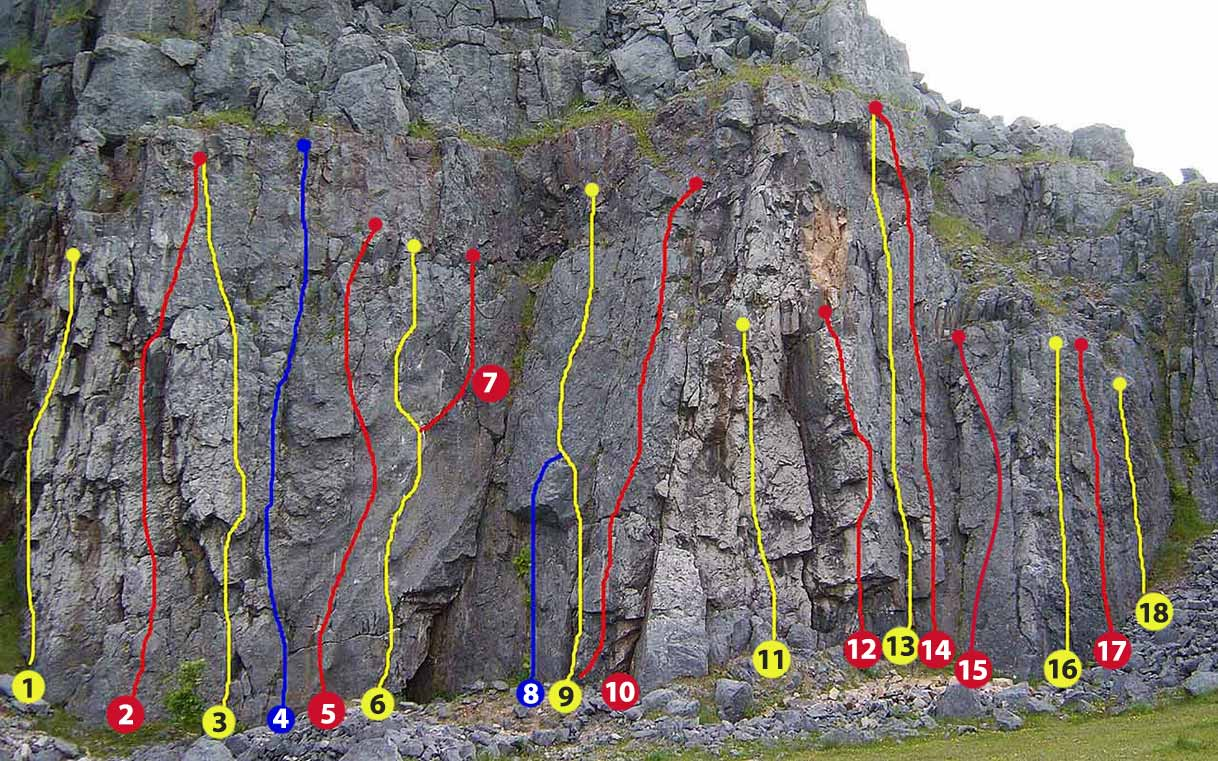
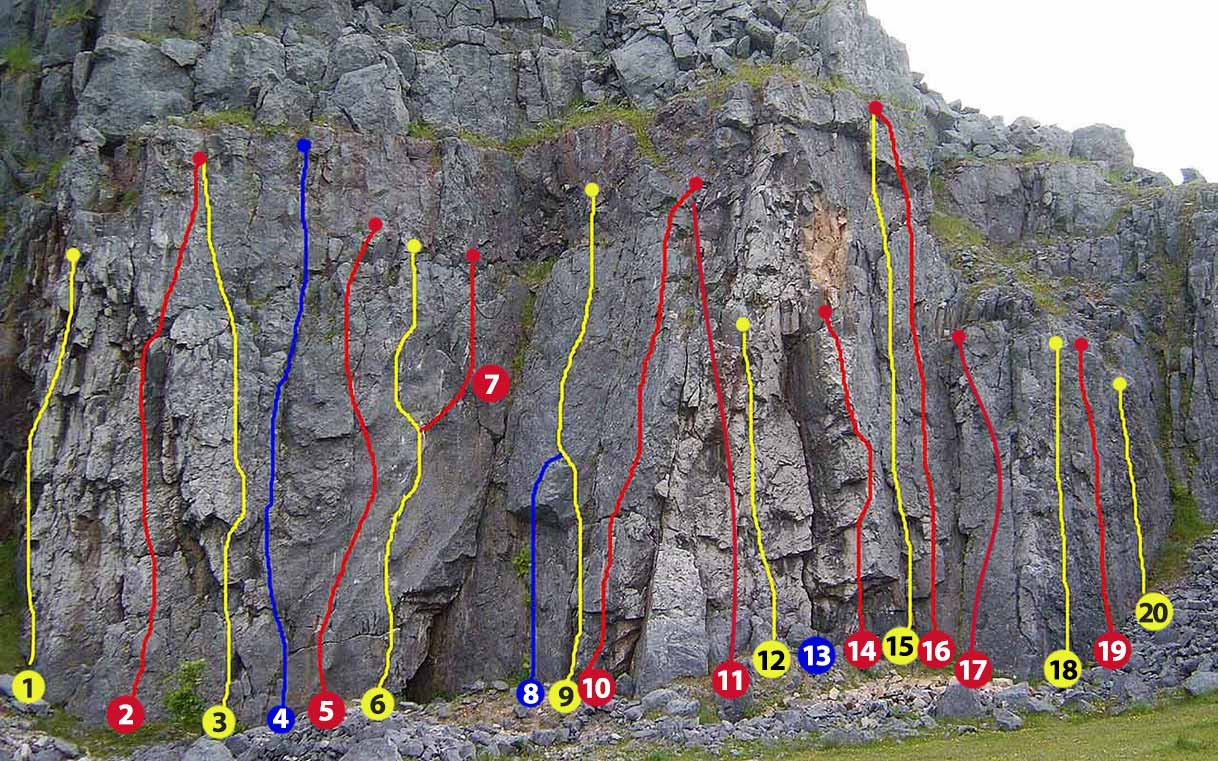
New route on Cairn topos. Topos updated

diff --git a/content/peak/buxton/harpur-hill/hh-cairn-sector.md b/content/peak/buxton/harpur-hill/hh-cairn-sector.md
@@ -39,39 +39,45 @@ Direct through the overlap to join *Great White*.
 Slabby wall above overhang.
 
 **10. The Naked Spur(4+) *★***  
-very pleasant sharp arête.
+Very pleasant sharp arête.
 
-**11. Assault and Battery (6b+)**  
+**11 Driving Board (5)**
+
+**12. Assault and Battery (6b+)**  
 Short technical wall tucked in alcove. Gold BRs.
 
-**Ground and Pound (6a)**  
+**13. Ground and Pound (6a)**  
 The wide corner crack swing right into Trial and then moving up the thin crack before exiting left to its belay
 
-**12. Trial and Error (7a) *★***  
+**14. Trial and Error (7a) *★***  
 The short arête packs in an interesting variety of gritstone-esque moves and is best avoided on hot days. The route has now been extended to the full height of the cliff with the belay higher than is marked.
 
-**13. Senile Delinquents (5+)**  
+**15. Senile Delinquents (5+)**  
 Flake and wide crack via roof.
 
-**14. Cabin Fever (6b)**  
+**16. Cabin Fever (6b)**  
 Crack, roof and short wall to shared belay
 
-**15. Pebbles (6a+)**  
+**17. Pebbles (6a+)**  
 The first of 5 lines on the small buttress.
 
 **Wilmer (5)**  
 Takes second bolt line, just R of the crack.
 
-**16. Fred Flintstone (5) *★***  
+**18. Fred Flintstone (5) *★***  
 Left-hand side of short wall with peculiar 'worm' feature.
 
-**17. Barney Rubble (5)**  
+**19. Barney Rubble (5)**  
 Crack direct.
 
-**18. Yabba Dabba Doo (4)**  
+**20. Yabba Dabba Doo (4)**  
 Direct line via large hole.
 
 The fine compact wall to the right has several instense slab routes.
+{.csa}
+
+
+## Cairn Slabs area
 
 ![Cairn slabs area topo](/img/peak/buxton/hh-cairn-topo-2.jpg)
 {.topo}
@@ -79,21 +85,21 @@ The fine compact wall to the right has several instense slab routes.
 **Mueslli (6b)**  
 Climb the wall just left of *Petit Dejeuner*. 
 
-**19. Petit Dejeuner (4+)**  
+**22. Petit Dejeuner (4+)**  
 Left-hand line via faint scoop. Straight up from ledge. 
 
-**20. Breakfast at Safeways (6b+)**  
+**23. Breakfast at Safeways (6b+)**  
 Left-hand line via faint scoop. Straight up from ledge. 
 
-**21. 99p Special (6a+)**  
+**24. 99p Special (6a+)**  
 Thin crack from just left of toe of buttress, then rightwards. 
 
-**22. Food for Sport (6a)**  
+**25. Food for Sport (6a)**  
 The arête starting from the toe of the buttress.
 
-**23. Toast (5+)**
+**26. Toast (5+)**
 
-**24. Over Easy (6a+)**  
+**27. Over Easy (6a+)**  
 The right-hand side of the arête 
 
 **Full Set (6a+)**  

diff --git a/content/peak/buxton/new-mills/_index.md b/content/peak/buxton/new-mills/_index.md
@@ -16,7 +16,7 @@ columns: false
 ![New Mills Torrs](/img/peak/buxton/new-mills-torrs.jpg)
 {.topo}
 
-On the western edge of the Peak district lies the small town of New Mills. In the heart of the town and some 30m below is the sandstone crag of New Mills Torrs. This offers a mixture of trad climbing up to E5, bouldering and seven bolted lines taking lines up the adjacent bridge supports.
+On the western edge of the Peak district lies the small town of New Mills. In the heart of the town and some 30m below is the sandstone crag of New Mills Torrs. This offers a mixture of trad climbing up to E5, bouldering and seven bolted lines up the adjacent bridge supports.
 
 ## Character
 
